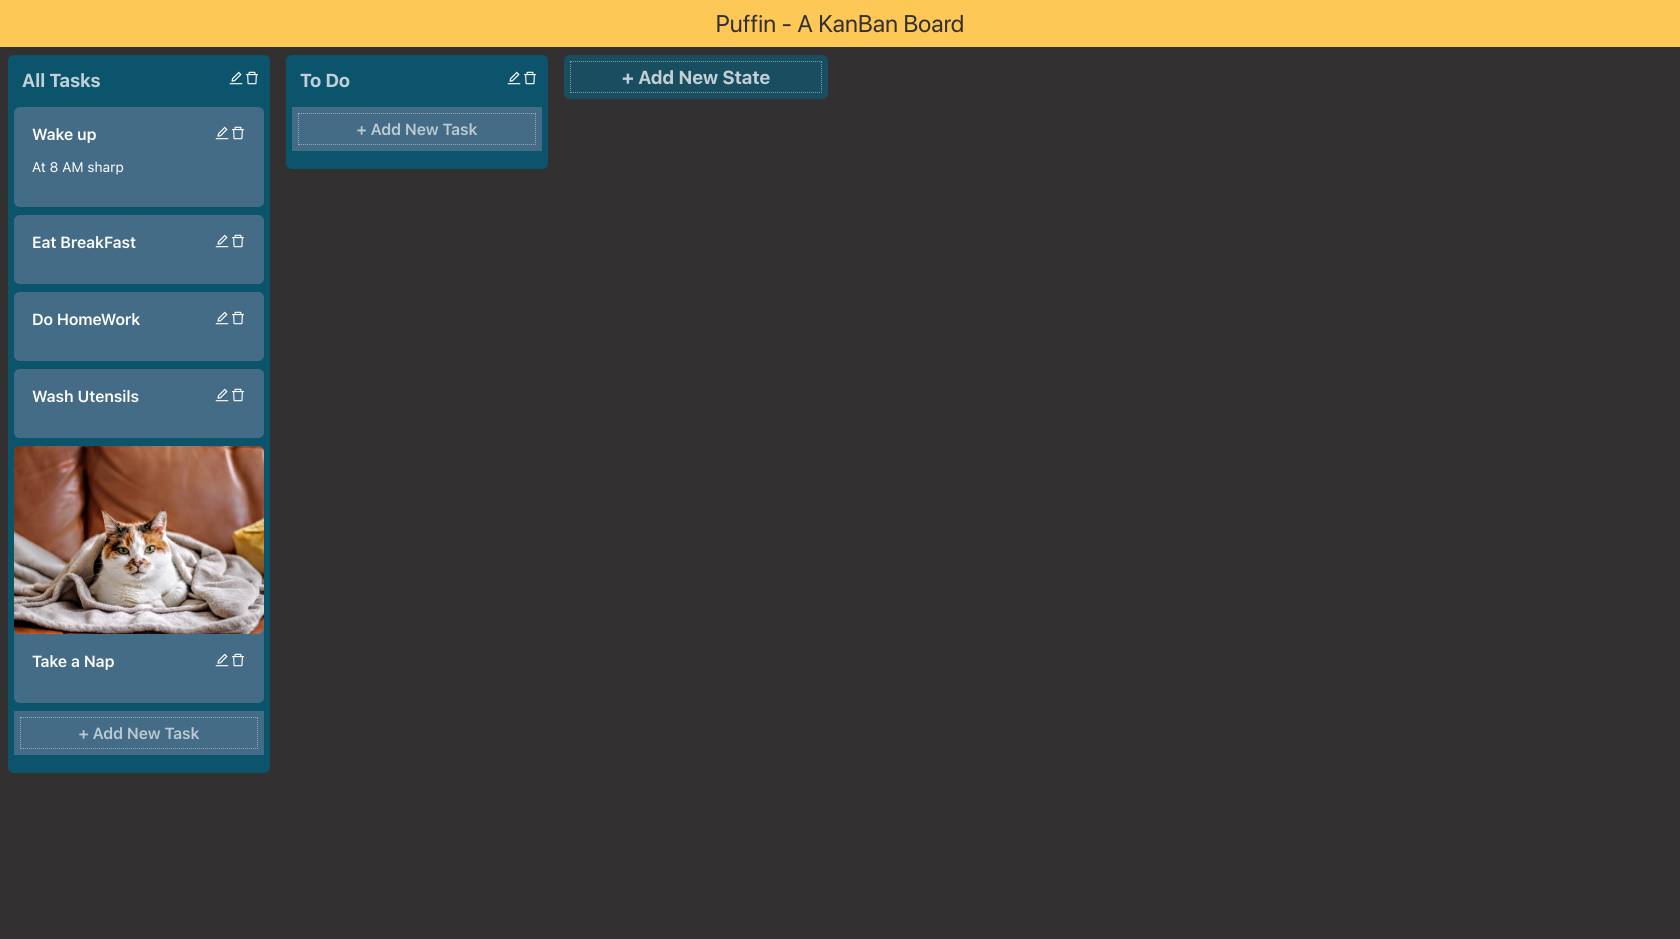
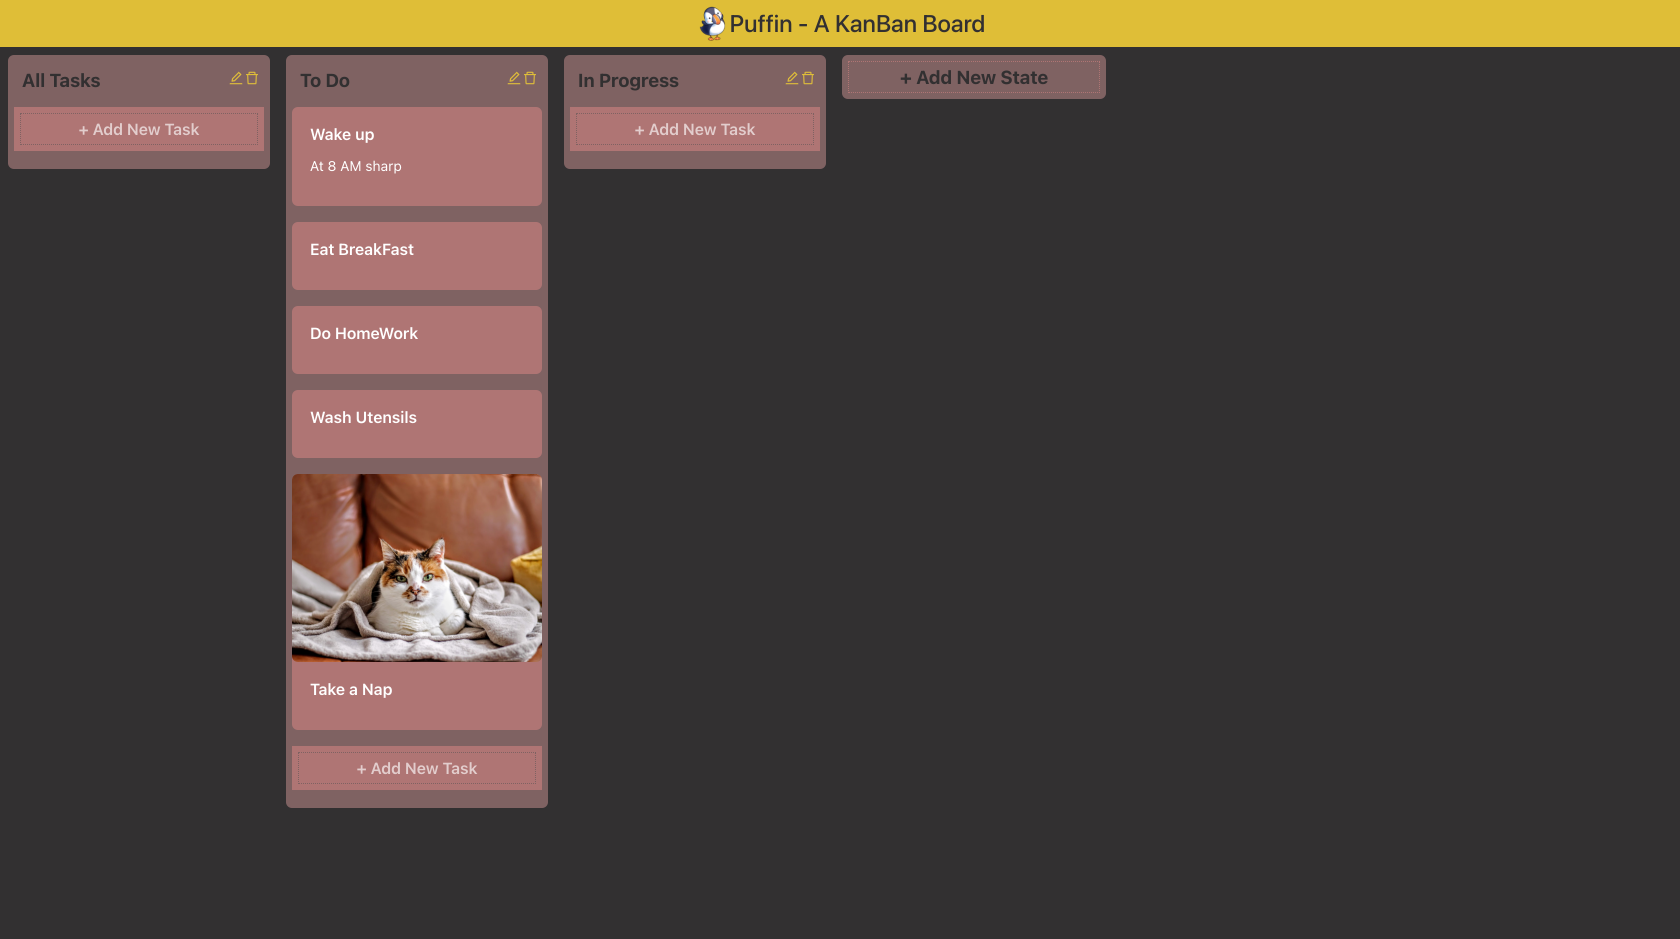
aestheticize the app

diff --git a/src/components/Card.js b/src/components/Card.js
@@ -4,13 +4,24 @@ import EditTaskModal from "./EditTaskModal";
 import { AiOutlineEdit, AiOutlineDelete } from 'react-icons/ai';
 import { deleteOneTask, listTaskStates } from "../services";
 import { useDispatch } from "react-redux";
+import { primaryColor } from "../utils/constants";
 
 const CardWrapper = styled.div`
-  background: #456c86;
+  background: ${primaryColor};
   border-radius: 6px;
   min-height: 5vh;
-  :hover {
-    transition: box-shadow 0.3s, border-color 0.3s, -webkit-box-shadow 0.3s;
+  &:hover {
+    box-shadow: 0 1px 2px -2px rgb(0 0 0 / 16%), 0 3px 6px 0 rgb(0 0 0 / 45%), 0 5px 12px 4px rgb(0 0 0 / 9%);
+    transition: box-shadow 0.3s, -webkit-box-shadow 0.3s;
+  }
+  ${
+    props=>props.dragging
+    ? 
+    `
+    transform: rotate(-8deg);
+    `
+    :
+    ''
   }
 `;
 
@@ -43,9 +54,11 @@ export default function Card({
   title = "",
   description = "",
   currentState,
-  id
+  id,
+  isDragging,
 }) {
   const [isModalOpen, setisModalOpen] = useState(false);
+  const [isHovered, setisHovered] = useState(false)
   const dispatch = useDispatch()
 
   const showEditModal = () => {
@@ -72,15 +85,20 @@ export default function Card({
   }
   
   return (
-    <CardWrapper>
+    <CardWrapper dragging={isDragging} onMouseEnter={()=>setisHovered(true)} onMouseLeave={()=>{setisHovered(false)}}>
       <Cover image={cover} />
       <CardBody>
         <Title>
           {title}
-          <div>
+          {
+            isHovered
+            ?
+            <div>
           <AiOutlineEdit onClick={showEditModal}>Edit</AiOutlineEdit>
           <AiOutlineDelete onClick={deleteTask}>Delete</AiOutlineDelete>
           </div>
+          :''
+          }
         </Title>
         <p>{description}</p>
       </CardBody>

diff --git a/src/components/EditStateModal.js b/src/components/EditStateModal.js
@@ -3,6 +3,7 @@ import Modal from "react-modal";
 import styled from '@emotion/styled'
 import { useDispatch } from "react-redux";
 import { listTaskStates, updateTasks, updateTaskState } from "../services";
+import { buttonStyles, headerColor, secondaryColor, textColor } from "../utils/constants";
 
 const Form = styled.form`
     display: flex;
@@ -15,8 +16,7 @@ const Form = styled.form`
         padding: 2% 5%;
     }
     button{
-      height: 32px;
-      width: 64px;
+      ${buttonStyles}
     }
 `
 const customStyles = {
@@ -85,12 +85,11 @@ export default function EditStateModal({
       >
         <div style={{display:'flex', justifyContent:'space-between', alignItems: 'center'}}>
         <h4>Edit Task State</h4>
-        <button onClick={closeEditModal} style={{height: '20px'}}>X</button>
+        <button onClick={closeEditModal} style={{height: '20px', background:'transparent', border:'none', outline: 'none'}}>X</button>
         </div>
         <Form onSubmit={saveChanges}>
           <input placeholder="State Name/Title" value={data.title} onChange={(e)=>{setData({...data, title: e.target.value})}} />
           <button type='submit'>Submit</button>
-          
         </Form>
       </Modal>
     </div>

diff --git a/src/components/EditTaskModal.js b/src/components/EditTaskModal.js
@@ -3,6 +3,7 @@ import Modal from "react-modal";
 import styled from '@emotion/styled'
 import { useDispatch } from "react-redux";
 import { listTaskStates, updateTasks } from "../services";
+import { buttonStyles } from "../utils/constants";
 
 const Form = styled.form`
     display: flex;
@@ -15,8 +16,7 @@ const Form = styled.form`
         padding: 2% 5%;
     }
     button{
-      height: 32px;
-      width: 64px;
+      ${buttonStyles}
     }
 `
 const customStyles = {
@@ -96,7 +96,7 @@ export default function EditTaskModal({
       >
         <div style={{display:'flex', justifyContent:'space-between', alignItems: 'center'}}>
         <h4>Edit Task</h4>
-        <button onClick={closeModal} style={{height: '20px'}}>X</button>
+        <button onClick={closeModal} style={{height: '20px', background:'transparent', border:'none', outline: 'none'}}>X</button>
         </div>
         <Form onSubmit={saveChanges}>
           <input placeholder="Task Name/Title" value={data.title} onChange={(e)=>{setData({...data, title: e.target.value})}} />

diff --git a/src/containers/SingleColumn.js b/src/containers/SingleColumn.js
@@ -3,6 +3,7 @@ import { Droppable } from "react-beautiful-dnd";
 import Draggable from "./CardContainer";
 import { createTask } from "../services";
 import EditTaskModal from "../components/EditTaskModal";
+import { primaryColor, tertiaryColor} from "../utils/constants";
 
 export default function DroppableContainer({ column, columnId }) {
   const [newTaskModal, setnewTaskModal] = useState({
@@ -40,14 +41,14 @@ export default function DroppableContainer({ column, columnId }) {
             {provided.placeholder}
             <div
               style={{
-                background: "#456c86",
+                background: primaryColor,
                 padding: 6,
                 marginBottom: 12,
               }}
             >
               <div
                 style={{
-                  border: "1px dotted #ffffff6e",
+                  border: `1px dotted ${tertiaryColor}`,
                   textAlign: "center",
                   cursor: "pointer",
                   fontSize: "16px",

diff --git a/src/utils/constants.js b/src/utils/constants.js
@@ -1,28 +1,15 @@
-import uuid from "uuid/v4";
+export const primaryColor = '#b07575'
+export const secondaryColor = '#e0be36'
+export const tertiaryColor = 'rgb(128 98 98)'
+export const headerColor = '#E0BE36'
+export const textColor = '#323031'
+export const buttonStyles = 
+    `height: 32px;
+      width: 64px;
+      margin: 2%;
+      border:none;
+      background: ${headerColor};
+      border-radius: 6px;
+      color: ${textColor}`
 
-const itemsFromBackend = [
-  { id: uuid(), content: "First task" },
-  { id: uuid(), content: "Second task" },
-  { id: uuid(), content: "Third task" },
-  { id: uuid(), content: "Fourth task" },
-  { id: uuid(), content: "Fifth task" },
-];
 
-export const columnsFromBackend = {
-  [uuid()]: {
-    name: "Requested",
-    items: itemsFromBackend,
-  },
-  [uuid()]: {
-    name: "To do",
-    items: [],
-  },
-  [uuid()]: {
-    name: "In Progress",
-    items: [],
-  },
-  [uuid()]: {
-    name: "Done",
-    items: [],
-  },
-};

diff --git a/public/index.html b/public/index.html
@@ -2,12 +2,12 @@
 <html lang="en">
   <head>
     <meta charset="utf-8" />
-    <link rel="icon" href="%PUBLIC_URL%/favicon.ico" />
+    <link rel="icon" href="%PUBLIC_URL%/favicon.png" />
     <meta name="viewport" content="width=device-width, initial-scale=1" />
     <meta name="theme-color" content="#000000" />
     <meta
       name="description"
-      content="Web site created using create-react-app"
+      content="Your simple KanBan Board"
     />
     <link rel="apple-touch-icon" href="%PUBLIC_URL%/logo192.png" />
     <!--
@@ -24,7 +24,8 @@
       work correctly both with client-side routing and a non-root public URL.
       Learn how to configure a non-root public URL by running `npm run build`.
     -->
-    <title>React App</title>
+    <title>Puffin-Kanban</title>
+    
   </head>
   <body>
     <noscript>You need to enable JavaScript to run this app.</noscript>

diff --git a/src/containers/Board.js b/src/containers/Board.js
@@ -7,6 +7,7 @@ import {
   listTaskStates,
   updateTasks,
 } from "../services";
+import { primaryColor, secondaryColor, tertiaryColor } from "../utils/constants";
 
 const onDragEnd = (result, columns, setColumns) => {
 
@@ -113,14 +114,14 @@ function DraggableBoard(props) {
           flexDirection: "column",
           alignItems: "center",
           margin: "8px",
-          backgroundColor: "rgba(11, 84, 107, 0.8)",
+          backgroundColor: tertiaryColor,
           borderRadius: "6px",
           padding: "6px",
         }}
       >
         <div
           style={{
-            border: "1px dotted #ffffff6e",
+            border: `1px dotted ${primaryColor}`,
             width: "250px",
             textAlign: "center",
             cursor: "pointer",

diff --git a/src/containers/Header.js b/src/containers/Header.js
@@ -1,5 +1,7 @@
 import React from 'react'
 import styled from '@emotion/styled'
+import puffinLogo from '../assets/favicon.png'
+import { headerColor } from '../utils/constants'
 
 const HeaderContainer = styled.div`
     min-width: 100vw;
@@ -7,14 +9,16 @@ const HeaderContainer = styled.div`
     display: flex;
     align-items: center;
     justify-content: center;
-    background: #FFC857;
+    background: ${headerColor};
     color: #323031;
     font-size: 24px;
+    font-weight: 500;
 `
 
 export default function Header() {
     return (
         <HeaderContainer>
+            <img width='35vh' src={puffinLogo} alt='Hello, I am a Puffin!'/>
             Puffin - A KanBan Board
         </HeaderContainer>
     )

diff --git a/src/containers/CardContainer.js b/src/containers/CardContainer.js
@@ -14,7 +14,7 @@ export default function DraggableContainer({ task, index }) {
               {...provided.dragHandleProps}
               style={{
                 userSelect: "none",
-                margin: "0 0 8px 0",
+                margin: "0 0 16px 0",
                 minHeight: "50px",
                 // color: "white",
                 ...provided.draggableProps.style,
@@ -26,6 +26,7 @@ export default function DraggableContainer({ task, index }) {
                 description={task.description}
                 currentState={task.taskState}
                 cover={task.featuredImg}
+                isDragging={snapshot.isDragging}
               />
             </div>
           );

diff --git a/src/containers/Columns.js b/src/containers/Columns.js
@@ -4,6 +4,7 @@ import { AiOutlineEdit, AiOutlineDelete } from 'react-icons/ai';
 import { deleteTaskState, listTaskStates } from "../services";
 import { useDispatch } from "react-redux";
 import EditStateModal from "../components/EditStateModal";
+import { tertiaryColor } from "../utils/constants";
 
 export default function Columns({ columnId, column }) {
 
@@ -47,7 +48,7 @@ export default function Columns({ columnId, column }) {
       <div
         style={{
           margin: 8,
-          backgroundColor: "#0b546b",
+          backgroundColor: tertiaryColor,
           borderRadius: 6,
           padding: 2,
         }}

diff --git a/src/App.js b/src/App.js
@@ -4,11 +4,12 @@ import Board from "./containers/Board";
 import { Provider } from "react-redux";
 import store from "./models/store";
 import {IconContext} from 'react-icons'
+import { secondaryColor } from "./utils/constants";
 
 function App() {
   return (
     <Provider store={store}>
-      <IconContext.Provider value={{ color: "white", className: "puffin-icons", style: {cursor:'pointer'} }}>
+      <IconContext.Provider value={{ color: secondaryColor, className: "puffin-icons", style: {cursor:'pointer'} }}>
       <div className="App">
         <Header />
         <Board />

diff --git a/src/models/reducer.js b/src/models/reducer.js
@@ -1,11 +1,8 @@
 const initialState = {
   taskStates: {},
-  tasks: [],
 };
 
-// Use the initialState as a default value
 export default function appReducer(state = initialState, action) {
-  // The reducer normally looks at the action type field to decide what happens
   switch (action.type) {
     case "UPDATE_TASK_LIST":
       return {
@@ -13,7 +10,6 @@ export default function appReducer(state = initialState, action) {
         taskStates: action.payload,
       };
 
-    // Do something here based on the different types of actions
     default:
       return state;
   }
